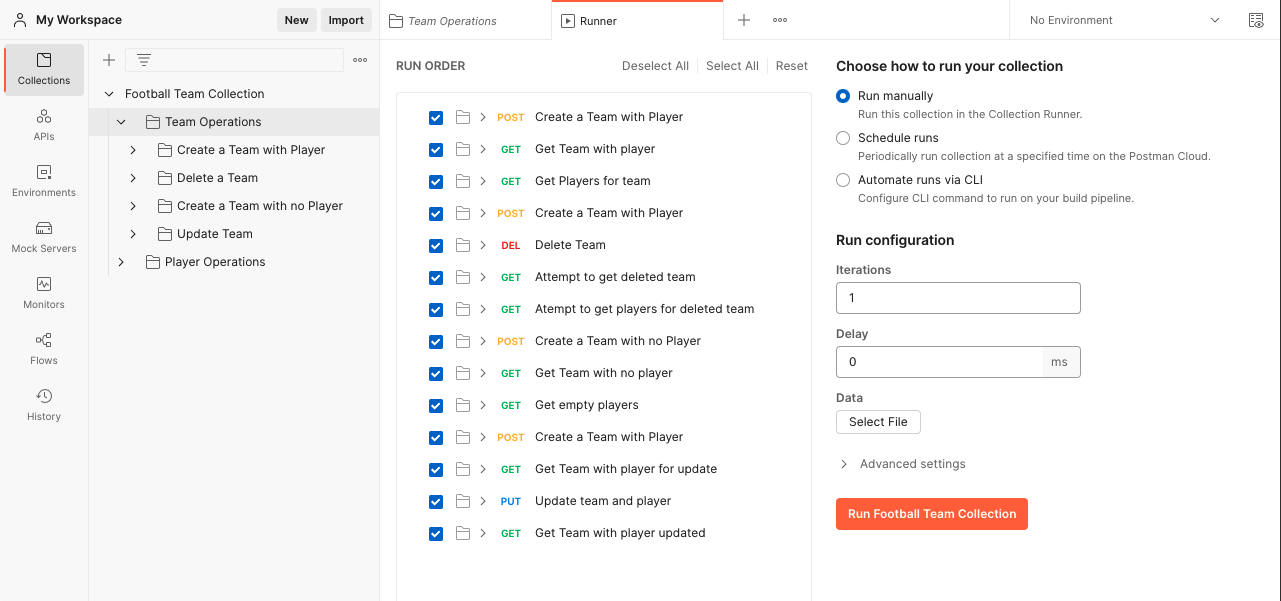
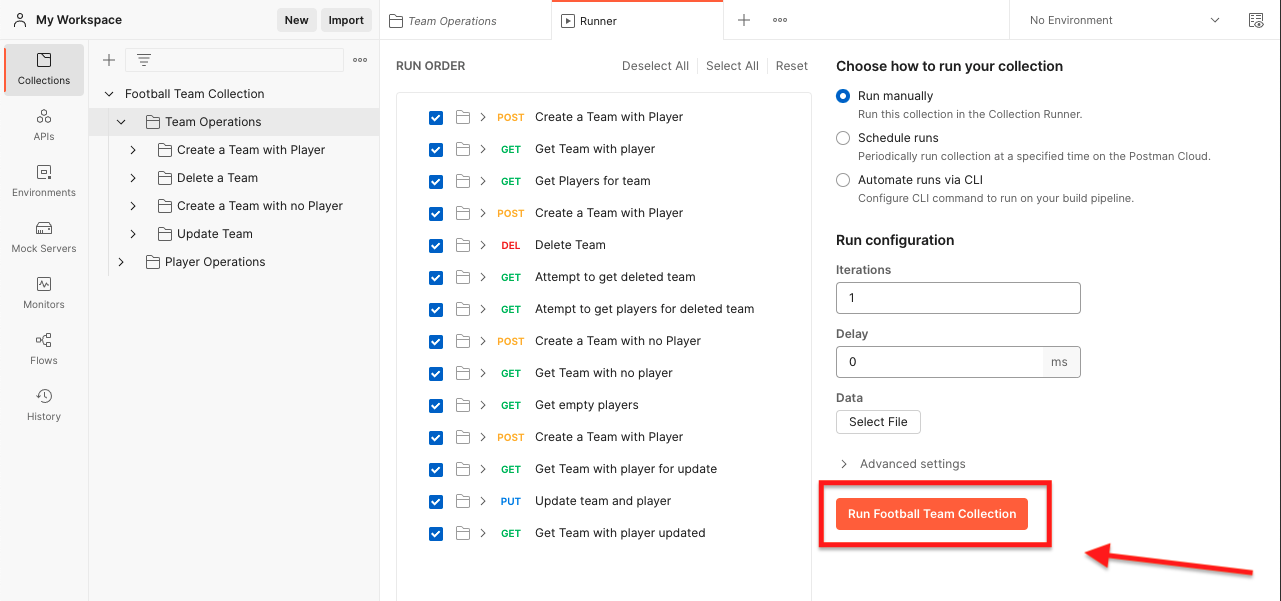
Add README file, Update images

Changed region(s): [[0.6245, 0.7787, 0.9992, 0.9584]]

diff --git a/README.md b/README.md
@@ -1,0 +1,43 @@
+# Postman instructions (Football Admin Application)
+
+Instructions to import the Postman Collection to run the Integration testing for Football Admin Application
+
+## STEPS
+
+1. Install & Run Postman
+<img src="https://github.com/georgeous497git/postmanFootballAdmin/blob/develop/images/1-runPostman.png" width="800" height="150">
+
+2. Download the Postman Collection attached on this repository
+[Football Admin Postman Collection](https://github.com/georgeous497git/postmanFootballAdmin/blob/develop/postman-scripts/Football-Team-Collection.postman_collection.json)
+
+3. Click on **Import** button
+<img src="https://github.com/georgeous497git/postmanFootballAdmin/blob/develop/images/3-importButton.png" width="800" height="100"> 
+
+4. Select the Postman Collection Json file downloaded previously
+<img src="https://github.com/georgeous497git/postmanFootballAdmin/blob/develop/images/4-selectCollection.png" width="800" height="300">
+
+
+5. Confirm the file importation 
+<img src="https://github.com/georgeous497git/postmanFootballAdmin/blob/develop/images/5-confirmImportation.png" width="800" height="300">
+
+
+6. Validate the file importation
+<img src="https://github.com/georgeous497git/postmanFootballAdmin/blob/develop/images/6-validateImportation.png" width="800" height="200">
+
+7. Open the Pre-request Script section from the parent folder to verify the parameters for **host** and **port** (must match with the application configuration)
+<img src="https://github.com/georgeous497git/postmanFootballAdmin/blob/develop/images/7-veryParameters.png" width="800" height="200">
+
+
+## RUN
+
+#### Team Operations
+
+1. Select the folder Team Operations and click on **Run** button to execute the Integration Testing for all HTTP methods (POST, GET, PUT)
+<img src="https://github.com/georgeous497git/postmanFootballAdmin/blob/develop/images/1-teamExecution.png" width="800" height="150">
+
+2. Click on **Run Football Team Collection** orange button
+<img src="https://github.com/georgeous497git/postmanFootballAdmin/blob/develop/images/2-RunFootballCollection.png" width="800" height="250">
+
+3. Validate the 24 success operations
+<img src="https://github.com/georgeous497git/postmanFootballAdmin/blob/develop/images/3-runTeamFull.png" width="800" height="150">
+
